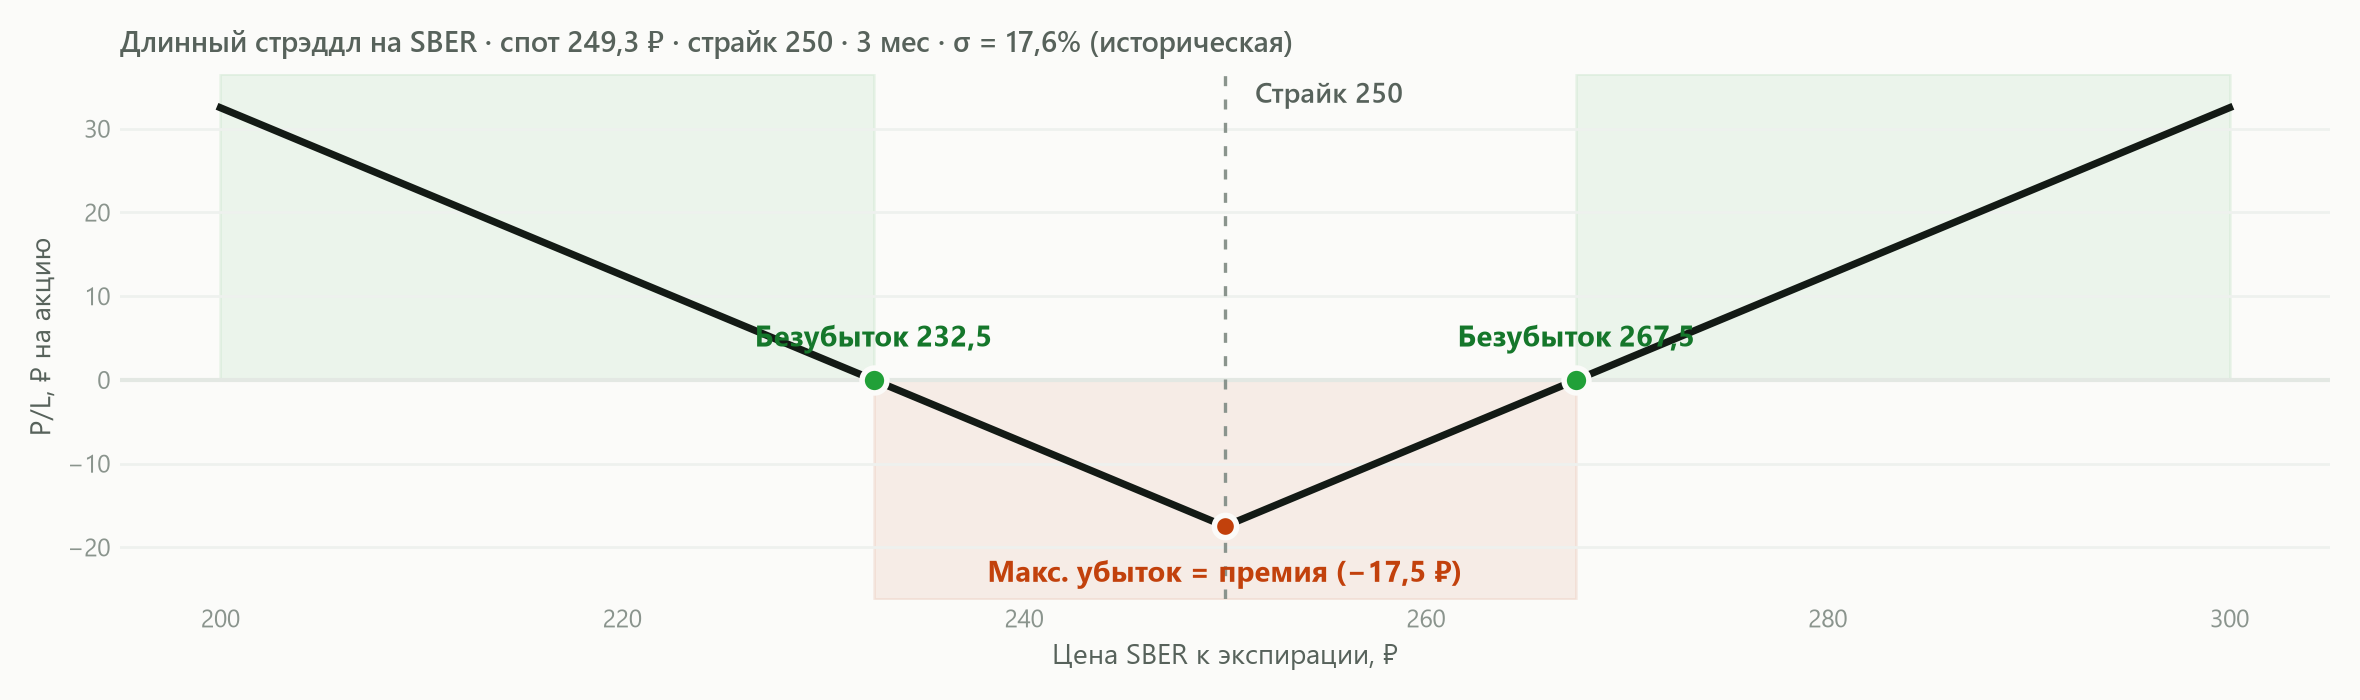
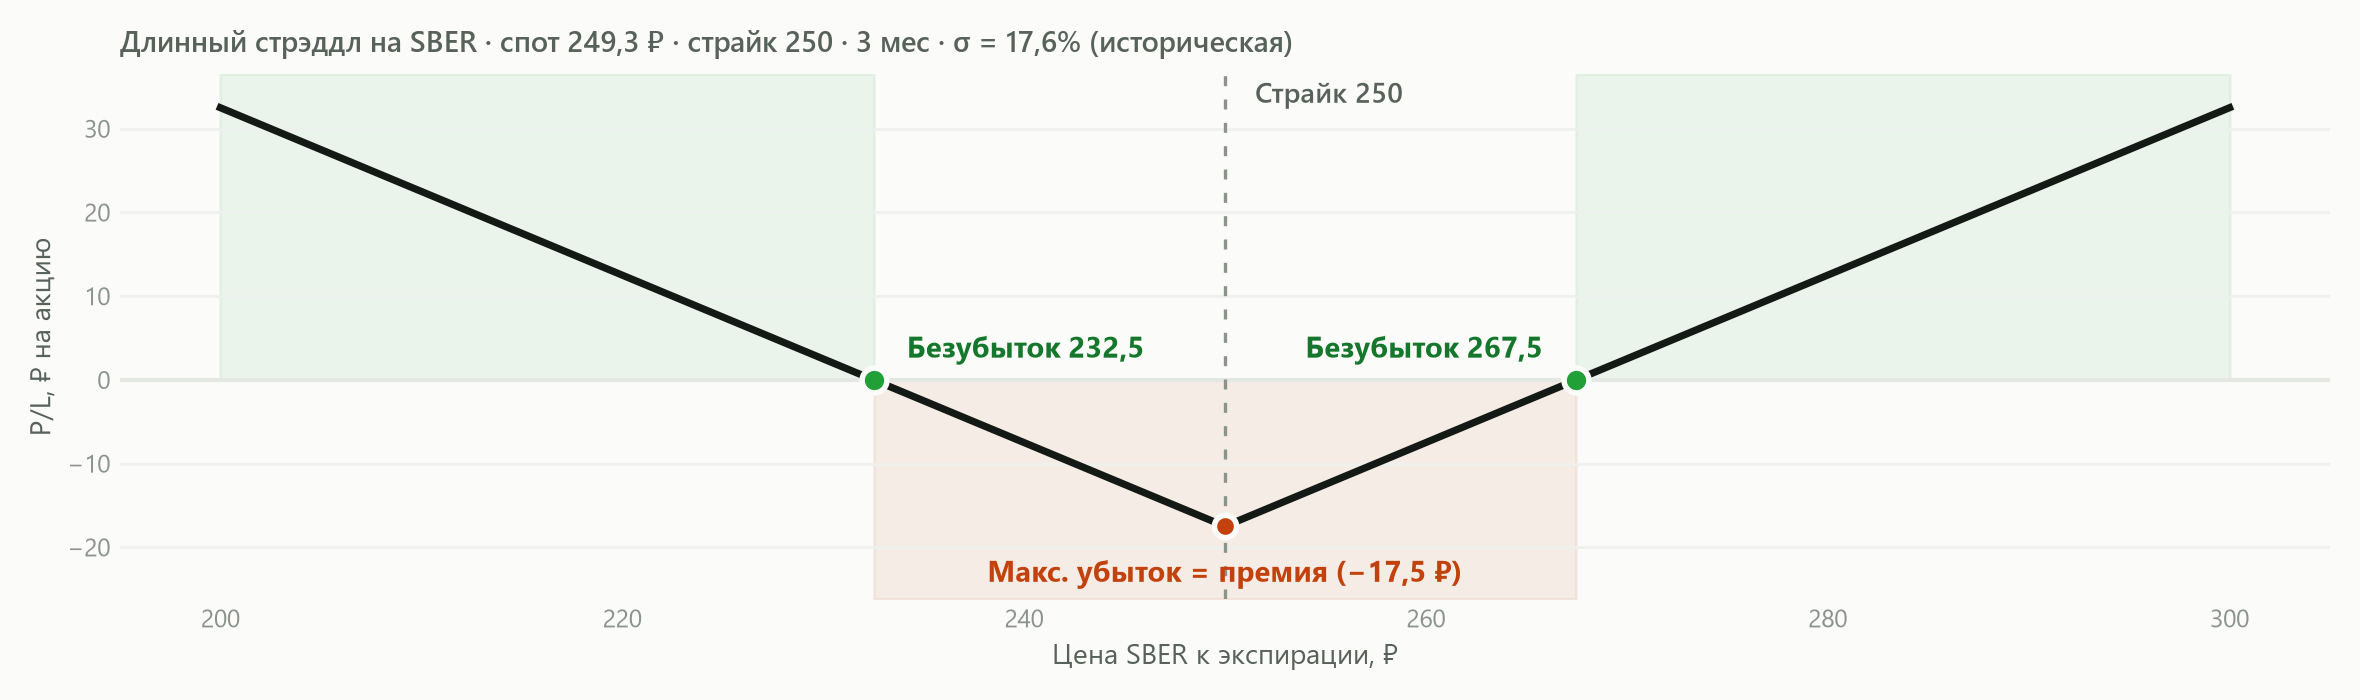
Payoff chart: move breakeven labels off the payoff line

Changed region(s): [[0.3093, 0.45, 0.4949, 0.51], [0.5568, 0.45, 0.7114, 0.51]]

diff --git a/presentation/build_deck.py b/presentation/build_deck.py
@@ -462,11 +462,14 @@ def make_payoff(path):
     ax.text(K + 1.5, ymax - 1.0, f"Страйк {K:.0f}", ha="left", va="top",
             color=M_INK2, fontsize=10, fontweight=600)
     ax.plot(s, pay, color=M_INK, lw=2.6, solid_joinstyle="round")
-    for be in (K - prem, K + prem):
+    # Labels go into the empty side of each breakeven: the payoff line drops
+    # below zero towards the strike, so left-BE labels right-up, right-BE
+    # labels left-up — centred labels sit right on the diagonal line.
+    for be, off, ha in ((K - prem, (12, 8), "left"), (K + prem, (-12, 8), "right")):
         ax.scatter([be], [0], s=80, color=M_GREEN, edgecolors=M_PAPER, lw=2,
                    zorder=5)
-        ax.annotate(f"Безубыток {ru(be)}", (be, 0), (0, 12),
-                    textcoords="offset points", ha="center",
+        ax.annotate(f"Безубыток {ru(be)}", (be, 0), off,
+                    textcoords="offset points", ha=ha,
                     color=M_GREEN_D, fontweight="bold", fontsize=10.5)
     ax.scatter([K], [-prem], s=64, color=M_WARM, edgecolors=M_PAPER, lw=2,
                zorder=5)